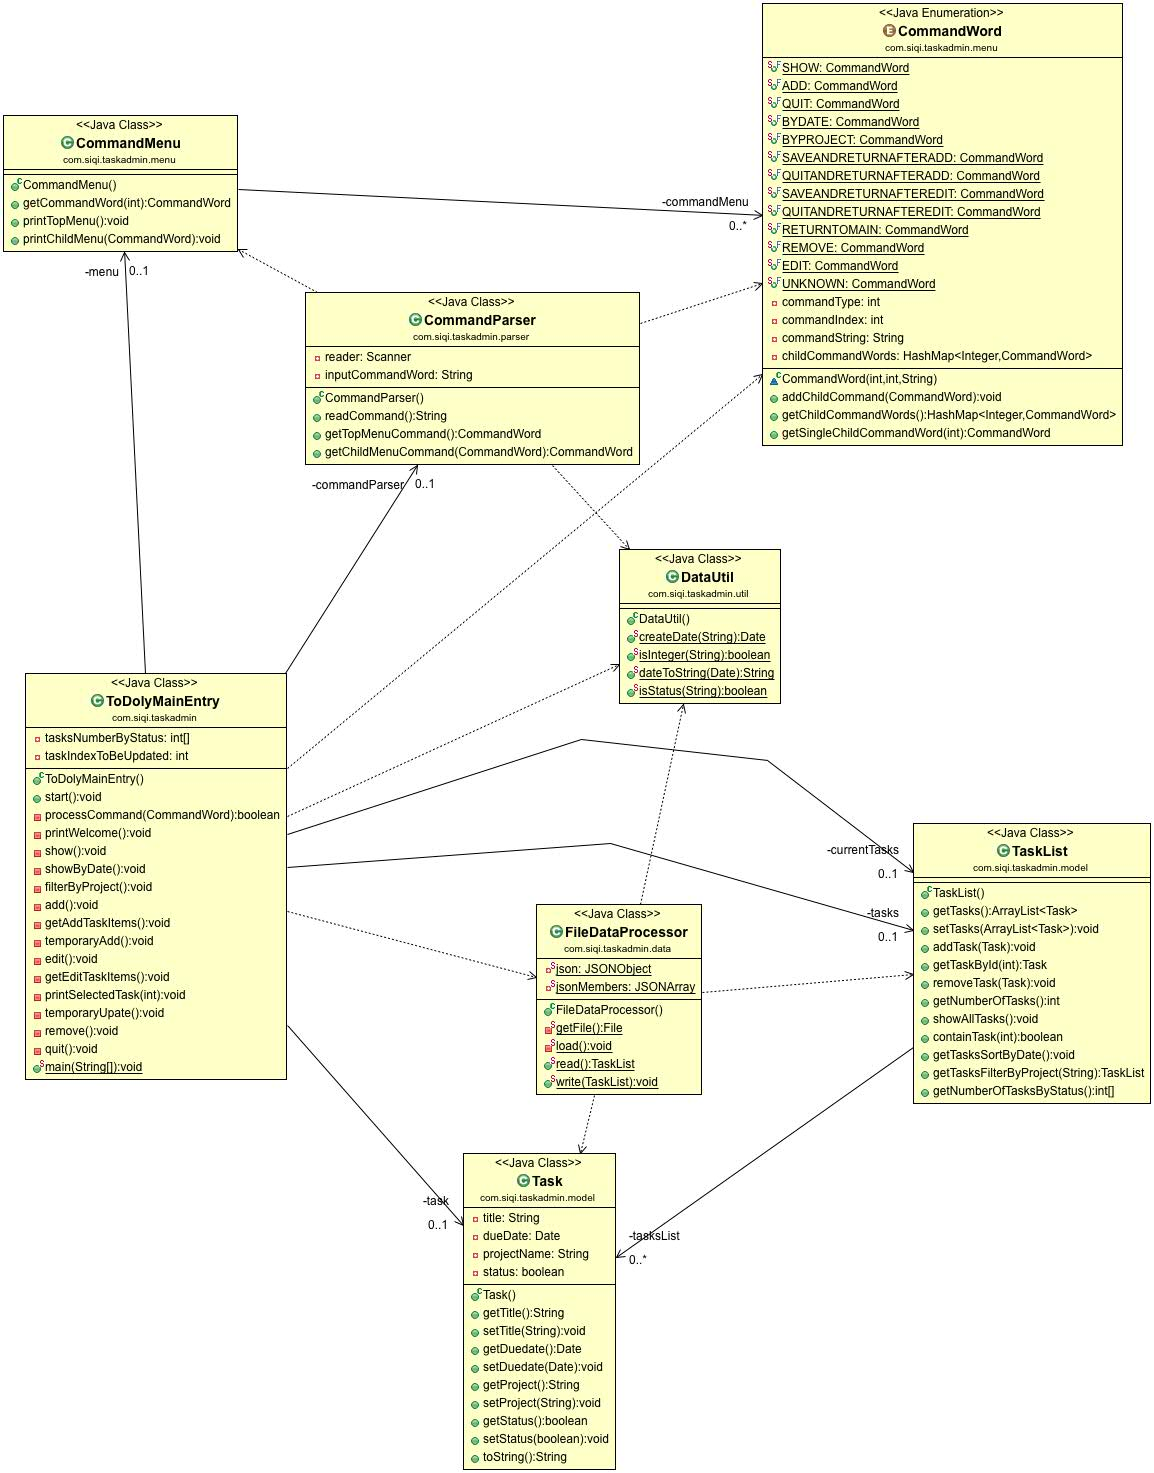
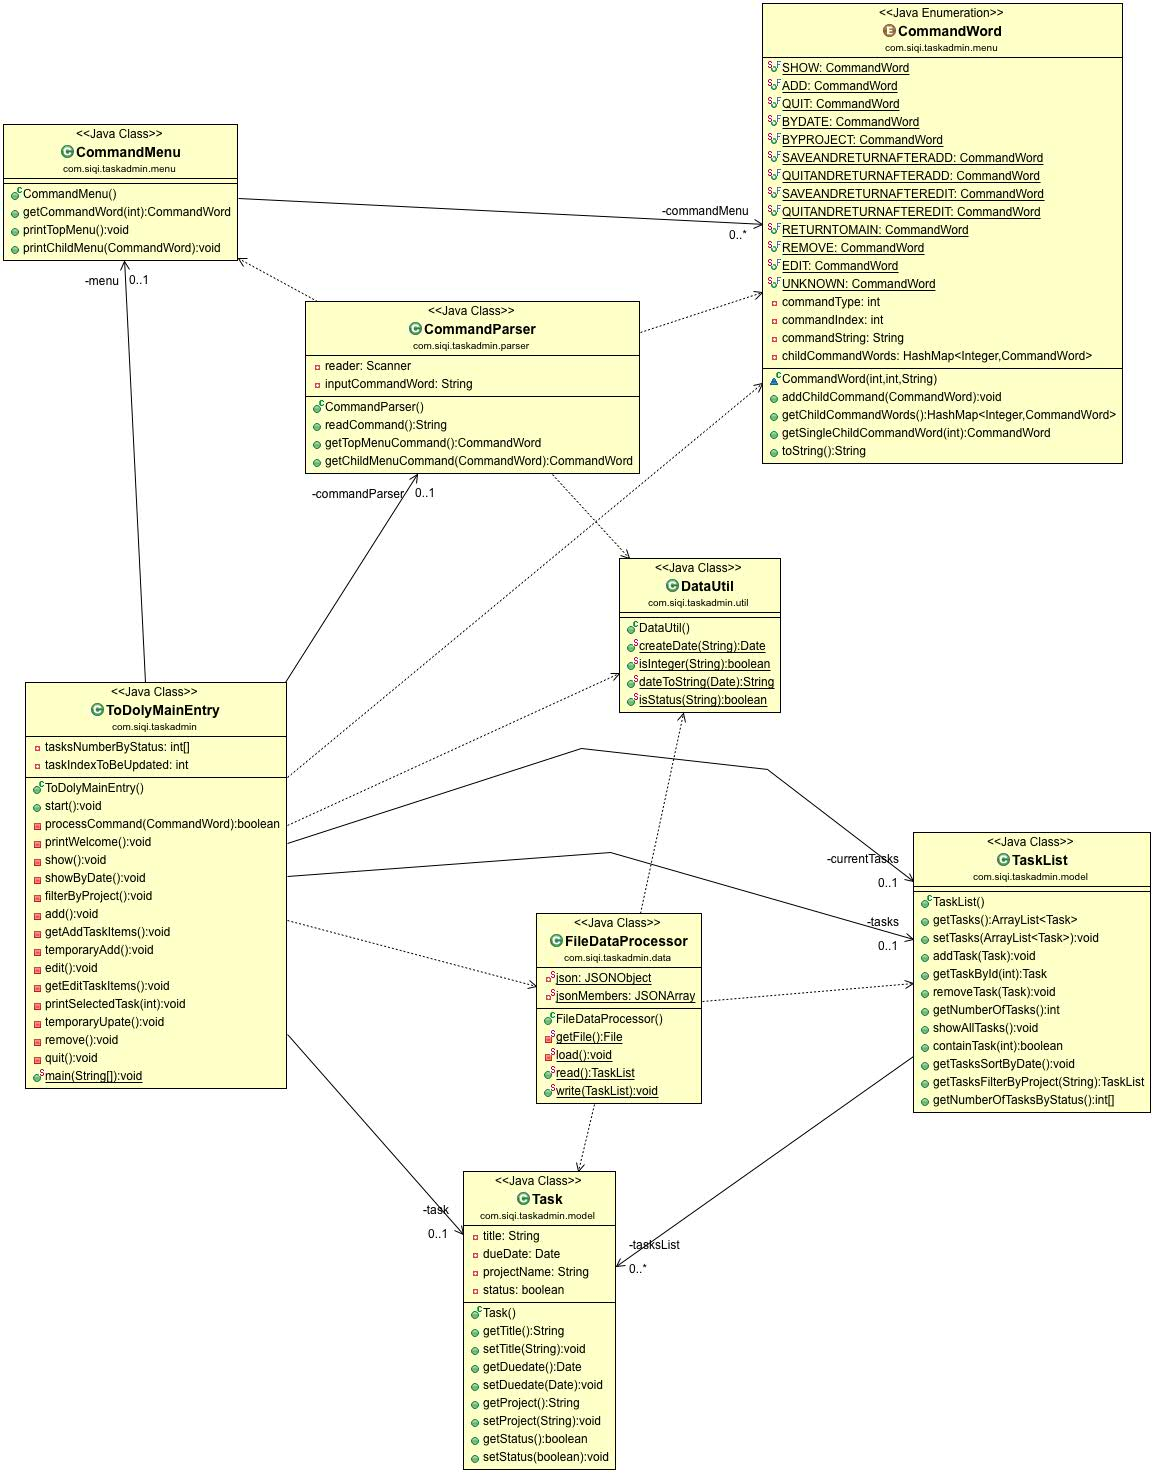
Tasklist display optimized and add some input restriction when adding and editing ta

diff --git a/TaskAdministrator/src/com/siqi/taskadmin/test/Junit5Test.java b/TaskAdministrator/src/com/siqi/taskadmin/test/Junit5Test.java
@@ -1,9 +1,12 @@
 package com.siqi.taskadmin.test;
+
 import static org.junit.Assert.assertEquals;
 import static org.junit.Assert.assertFalse;
+import static org.junit.Assert.assertSame;
 import static org.junit.Assert.assertTrue;
 
 import java.lang.reflect.Field;
+import java.util.Date;
 
 import org.junit.jupiter.api.AfterAll;
 import org.junit.jupiter.api.AfterEach;
@@ -13,8 +16,6 @@ import org.junit.jupiter.api.Test;
 
 import com.siqi.taskadmin.util.DataUtil;
 import com.siqi.taskadmin.model.Task;
-
-
 
 /**
  * This class is unit test class for the "ToDoLy" application
@@ -56,7 +57,7 @@ class Junit5Test {
 	void dataUtilUnitTest() {
 		assertEquals("12-12-2012", DataUtil.dateToString(DataUtil.createDate("12-12-2012")));
 		assertEquals("01-02-0001", DataUtil.dateToString(DataUtil.createDate("1-2-1")));
-		
+
 		assertFalse(DataUtil.isInteger("a"));
 		assertTrue(DataUtil.isInteger("1"));
 		assertTrue(DataUtil.isInteger("  1"));
@@ -67,40 +68,57 @@ class Junit5Test {
 		assertTrue(DataUtil.isStatus(" 0   "));
 		assertTrue(DataUtil.isStatus(" 1    "));
 		assertFalse(DataUtil.isInteger(" 1-1 "));
-		assertFalse(DataUtil.isInteger(Integer.toString(Integer.MAX_VALUE+1)));
+		assertFalse(DataUtil.isInteger(Integer.toString(Integer.MAX_VALUE + 1)));
 		assertFalse(DataUtil.isInteger("2147483648"));
 		assertFalse(DataUtil.isStatus("2147483648"));
-		
-		
+
 	}
-	
+
 	@Test
-	public void TaskUnitTest() throws NoSuchFieldException, SecurityException, IllegalArgumentException, IllegalAccessException {
-		Task task =new Task();
-		Class<?> clazz=task.getClass();
-		Field titleField =clazz.getDeclaredField("title");
+	public void TaskUnitTest()
+			throws NoSuchFieldException, SecurityException, IllegalArgumentException, IllegalAccessException {
+		Task task = new Task();
+		Class<?> clazz = task.getClass();
+		Field titleField = clazz.getDeclaredField("title");
 		Field projectNameField = clazz.getDeclaredField("projectName");
+		Field dueDateField = clazz.getDeclaredField("dueDate");
+		Field statusField = clazz.getDeclaredField("status");
 		titleField.setAccessible(true);
 		projectNameField.setAccessible(true);
-		String title=(String)titleField.get(task);
-		String projectName=(String)projectNameField.get(task);
-		
-		
-		assertEquals(null,title);
-		assertEquals(null,projectName);
-		
+		dueDateField.setAccessible(true);
+		statusField.setAccessible(true);
+		String title = (String) titleField.get(task);
+		String projectName = (String) projectNameField.get(task);
+		Date dueDate = (Date) dueDateField.get(task);
+		boolean status = (boolean) statusField.get(task);
+
+		assertEquals(null, title);
+		assertEquals(null, projectName);
+		assertEquals(null, dueDate);
+		assertEquals(false, status);
+
 		task.setTitle("title1");
-		title =(String)titleField.get(task);
-		assertEquals("title1",title);
-		assertEquals("title1",task.getTitle());
-		
-		
+		title = (String) titleField.get(task);
+		assertEquals("title1", title);
+		assertEquals("title1", task.getTitle());
+
 		task.setProject("project1");
-		projectName =(String)projectNameField.get(task);
-		assertEquals("project1",projectName);
-		assertEquals("project1",task.getProject());
-		
-		
+		projectName = (String) projectNameField.get(task);
+		assertEquals("project1", projectName);
+		assertEquals("project1", task.getProject());
+
+		Date datetemp = DataUtil.createDate("12-12-2012");
+		task.setDuedate(datetemp);
+		assertSame(datetemp, task.getDuedate());
+		assertEquals("12-12-2012", DataUtil.dateToString(task.getDuedate()));
+
+		task.setStatus(true);
+		status = (boolean) statusField.get(task);
+		assertTrue(status);
+		assertTrue(task.getStatus());
+
+		System.out.println(task.toString());
+
 	}
 
 }

diff --git a/TaskAdministrator/src/com/siqi/taskadmin/ToDolyMainEntry.java b/TaskAdministrator/src/com/siqi/taskadmin/ToDolyMainEntry.java
@@ -240,16 +240,24 @@ public class ToDolyMainEntry {
 	 */
 	private void getAddTaskItems() {
 		boolean isDate = false;
-		boolean isEmpty = true;
+		boolean titleValid = false;
+		boolean projectValid = false;
 		String taskTitle = "";
 		Date dueDate = new Date();
+		String projectName = "";
 		task = new Task();
-		// Judge if the title of a new task is empty.
-		while (isEmpty) {
-			System.out.println("TaskTitle(Task title cannot be empty and is unable to be modified once created.):");
+		System.out.println("Task title(Task title is unable to be modified once created.):");
+		// Judge if the title of a new task is empty and no more than 16 characters.
+		while (!titleValid) {
 			taskTitle = commandParser.readCommand();
 			if (taskTitle != null && !taskTitle.trim().equals("")) {
-				isEmpty = false;
+				if (taskTitle.length() <= 16) {
+					titleValid = true;
+				} else {
+					System.out.println("Task title cannot be more than 16 characters!");
+				}
+			} else {
+				System.out.println("Task title cannot be empty");
 			}
 		}
 		// Judge if the dudate of a new task is in correct format
@@ -262,7 +270,15 @@ public class ToDolyMainEntry {
 			}
 		}
 		System.out.println("Project Name: ");
-		String projectName = commandParser.readCommand();
+		// Judge if the project name which user typed in is no more than 30 characters.
+		while (!projectValid) {
+			projectName = commandParser.readCommand();
+			if (projectName.length() <= 30) {
+				projectValid = true;
+			} else {
+				System.out.println("Project name cannot be more than 30 characters!");
+			}
+		}
 		task.setTitle(taskTitle);
 		task.setDuedate(dueDate);
 		task.setProject(projectName);
@@ -324,7 +340,9 @@ public class ToDolyMainEntry {
 	private void getEditTaskItems() {
 		boolean isDate = false;
 		boolean isStatus = false;
+		boolean projectValid = false;
 		Date dueDate = new Date();
+		String projectName = "";
 		String status = "";
 		task = new Task();
 		// Judge if the dudate which user typed in is in correct format
@@ -337,7 +355,15 @@ public class ToDolyMainEntry {
 			}
 		}
 		System.out.println("Project Name: ");
-		String projectName = commandParser.readCommand();
+		// Judge if the project name which user typed in is no more than 30 characters.
+		while (!projectValid) {
+			projectName = commandParser.readCommand();
+			if (projectName.length() <= 30) {
+				projectValid = true;
+			} else {
+				System.out.println("Project name cannot be more than 30 characters!");
+			}
+		}
 		// Judge if the staus of which user typed in is 1 or 0;
 		while (!isStatus) {
 			System.out.println("Task Status(0:In progress; 1:Completed): ");

diff --git a/TaskAdministrator/src/com/siqi/taskadmin/model/TaskList.java b/TaskAdministrator/src/com/siqi/taskadmin/model/TaskList.java
@@ -1,5 +1,6 @@
 package com.siqi.taskadmin.model;
 
+import java.text.SimpleDateFormat;
 import java.util.ArrayList;
 import java.util.Comparator;
 import java.util.List;
@@ -89,11 +90,21 @@ public class TaskList {
 	 * Show the full list of tasks in the collection.
 	 */
 	public void showAllTasks() {
+		SimpleDateFormat formatter = new SimpleDateFormat("dd-MM-yyyy");
 		System.out.println("Task Detail:");
+		String AlignFormat = "| %-11d | %-16s |%-18s |%-30s |%-16s |%n";
+		System.out.format(
+				"+-------------+------------------+-------------------+-------------------------------+-----------------+%n");
+		System.out.format(
+				"| Task Index  |      Title       |      Duedate      |             Project           |      Status     |%n");
+		System.out.format(
+				"+-------------+------------------+-------------------+-------------------------------+-----------------+%n");
 		for (Task task : tasksList) {
-			System.out.println("***************************************** ");
-			System.out.println(" taskId:" + (tasksList.indexOf(task) + 1) + "\r" + task.toString());
+			System.out.format(AlignFormat, (tasksList.indexOf(task) + 1), task.getTitle(),
+					formatter.format(task.getDuedate()), task.getProject(), task.getStatus()==true?"Completed":"In progress");
+			 System.out.format("+-------------+------------------+-------------------+-------------------------------+-----------------+%n");
 		}
+		
 	}
 
 	/**

diff --git a/TaskAdministrator/src/com/siqi/taskadmin/model/Task.java b/TaskAdministrator/src/com/siqi/taskadmin/model/Task.java
@@ -1,6 +1,5 @@
 package com.siqi.taskadmin.model;
 
-import java.text.SimpleDateFormat;
 import java.util.Date;
 
 /**
@@ -102,18 +101,4 @@ public class Task {
 		this.status = status;
 	}
 
-	/**
-	 * Override toString method. Return a detailed description of the task in the
-	 * form: Task title: title Duedate: 20-12-2018 Project name: project Status:
-	 * completed
-	 * 
-	 * @return A long and detailed description of this room
-	 */
-	@Override
-	public String toString() {
-		SimpleDateFormat formatter = new SimpleDateFormat("dd-MM-yyyy");// set output format of duedate.
-		return " Task title:" + title + "\r Duedate:" + formatter.format(dueDate) + "\r Project name:" + projectName
-				+ "\r Status:" + (status == true ? "completed \r" : "in progress \r")
-				+ "*****************************************";
-	}
 }

diff --git a/TaskAdministrator/src/com/siqi/taskadmin/menu/CommandWord.java b/TaskAdministrator/src/com/siqi/taskadmin/menu/CommandWord.java
@@ -68,5 +68,13 @@ public enum CommandWord {
 			return CommandWord.UNKNOWN;
 		}
 	}
+	
+	@Override
+	/**
+     * @return The command word as a string.
+     */
+	public String toString() {
+		return commandString;
+	}
 
 }
